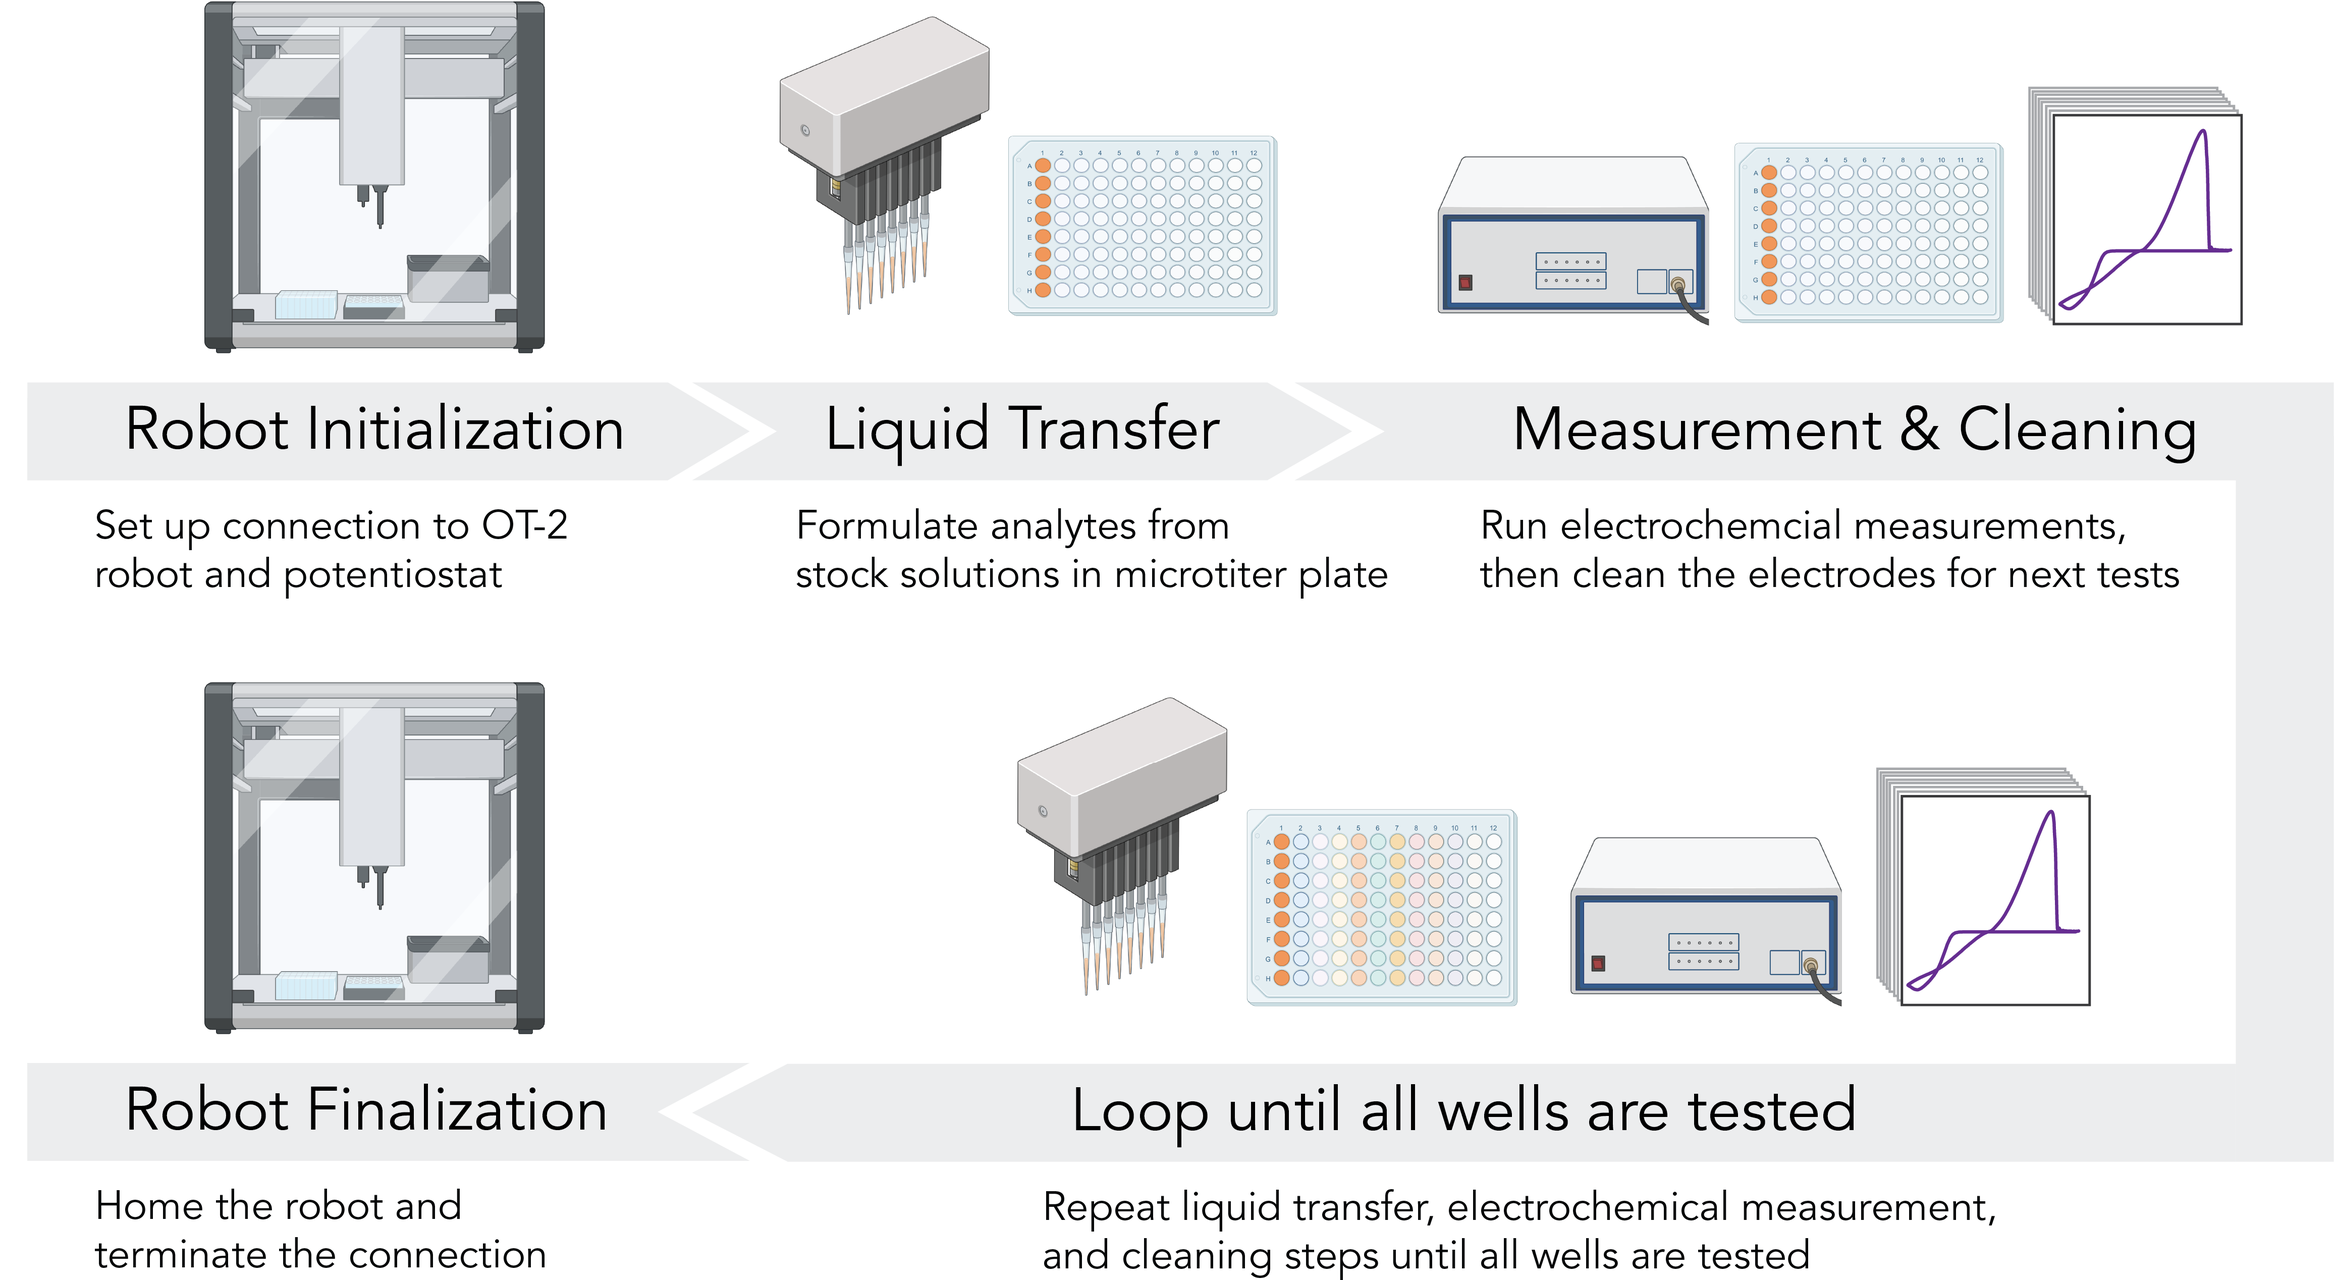
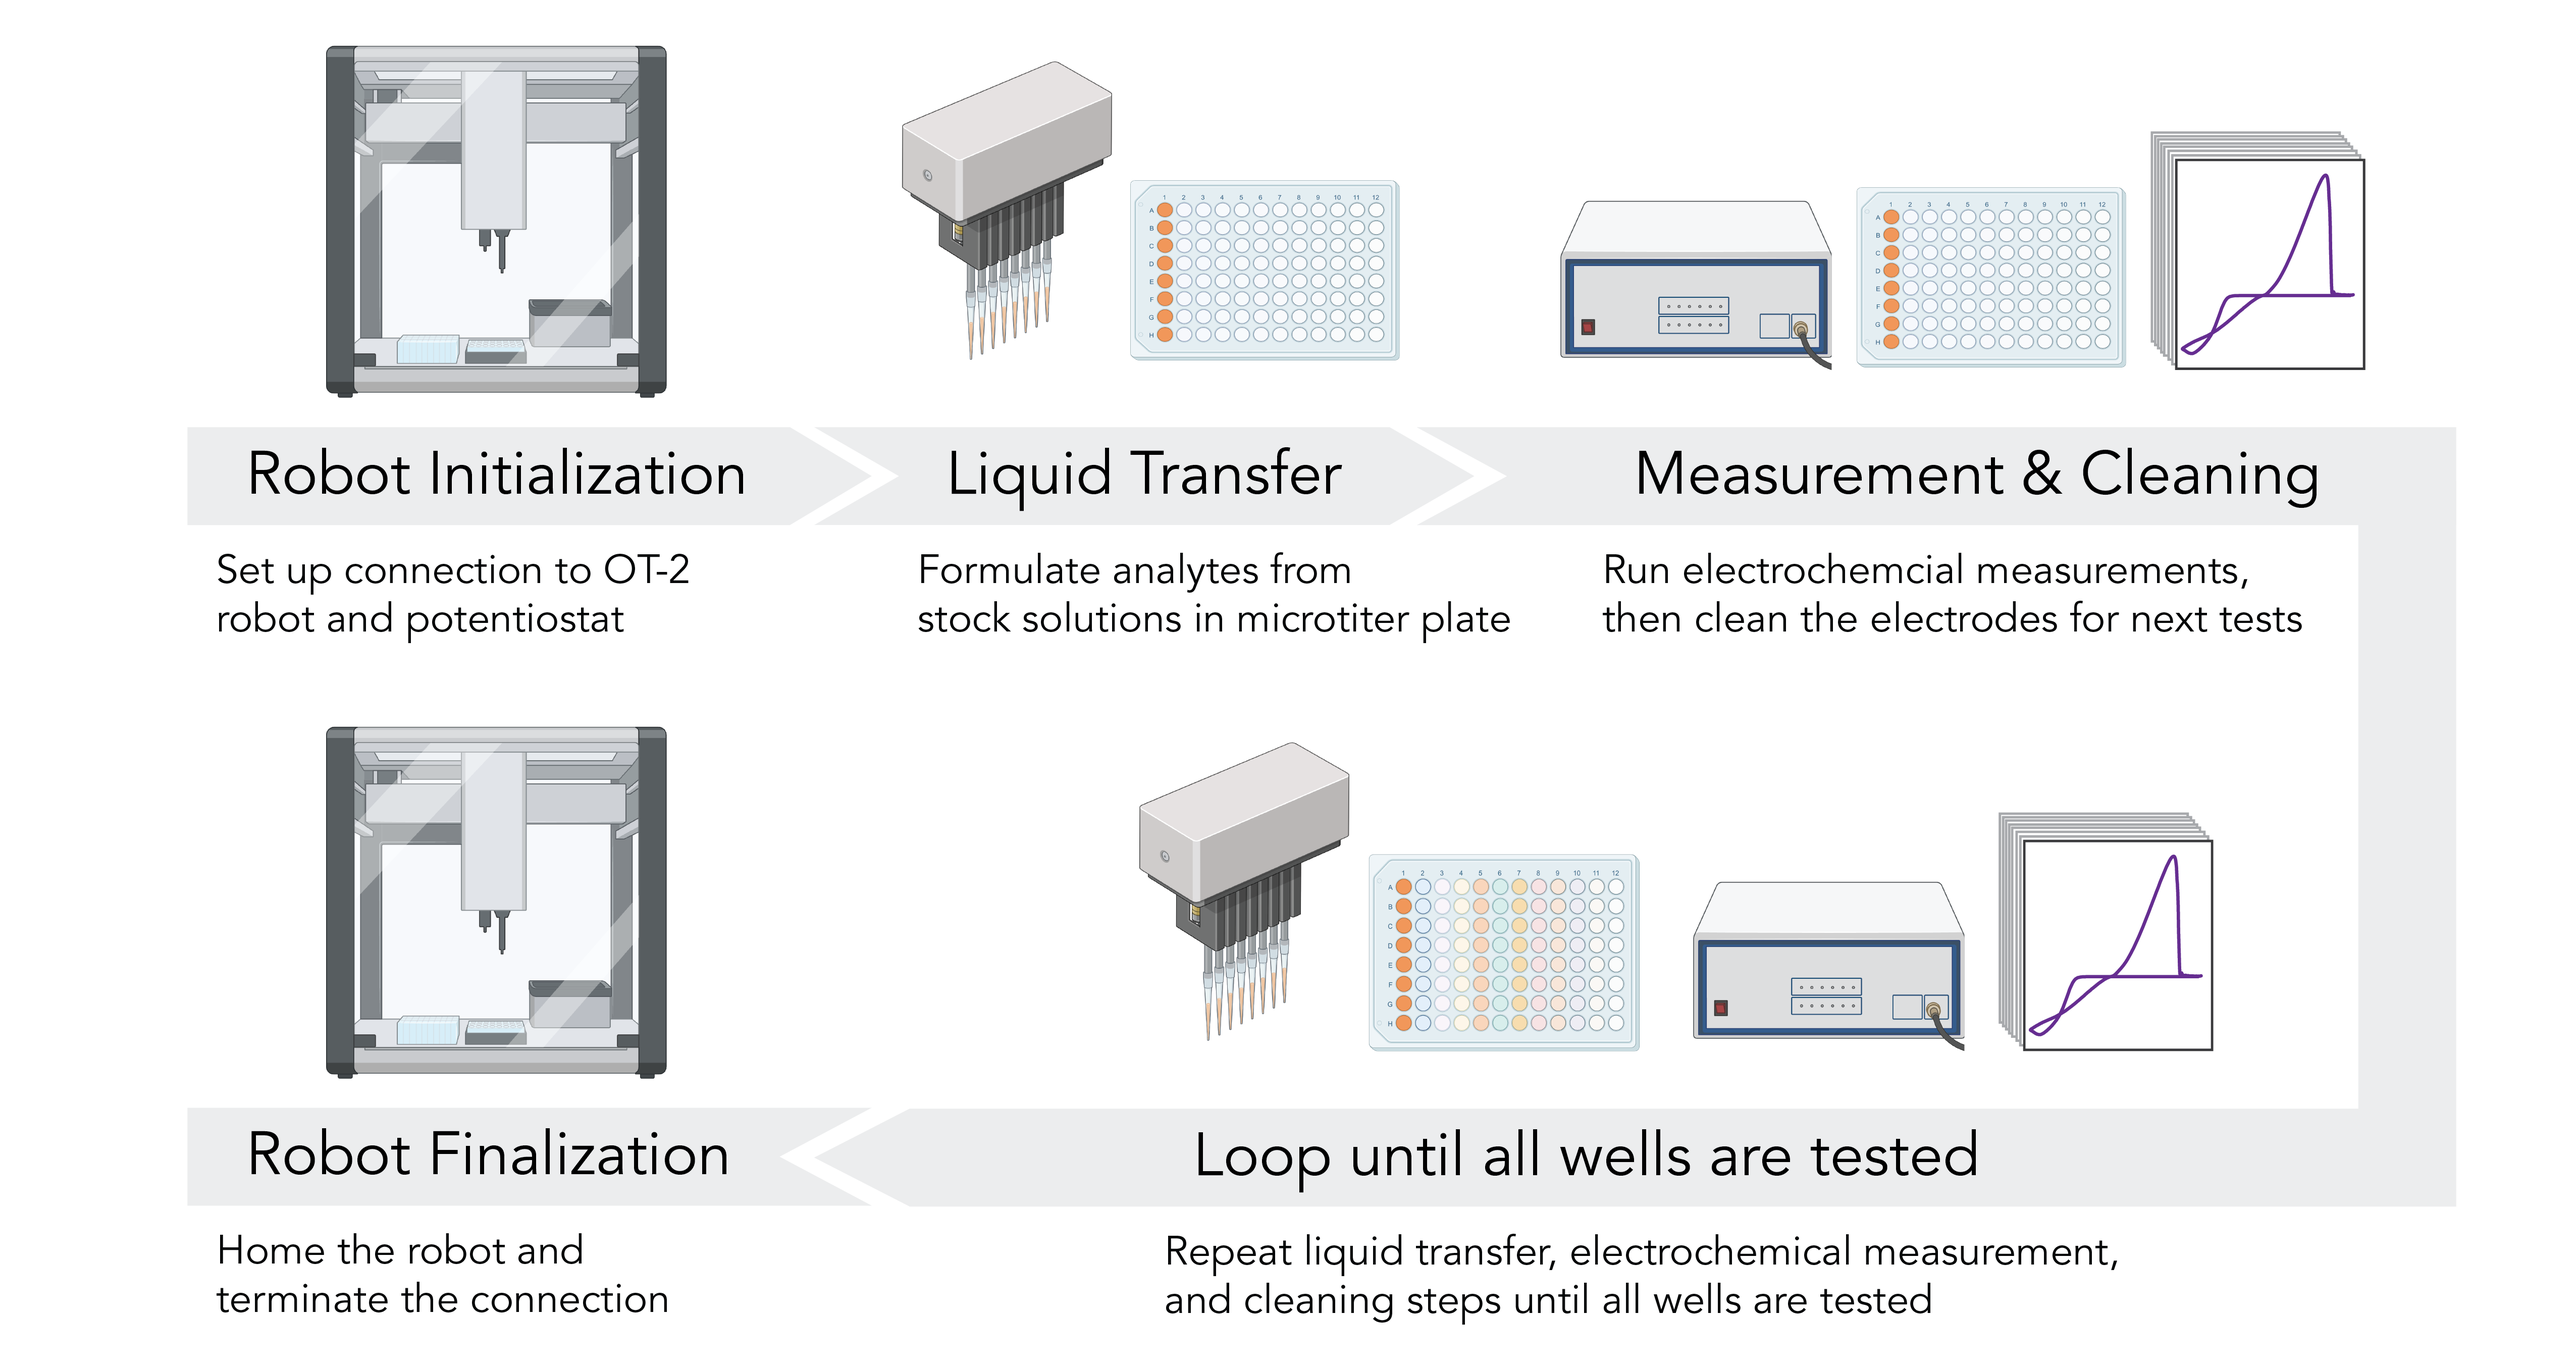
Update workflow

diff --git a/AHTech Operation/ReadMe.md b/AHTech Operation/ReadMe.md
@@ -9,7 +9,7 @@ to [`easy-biologic`](https://github.com/bicarlsen/easy-biologic).**
 #### `Full_operation.py` 
 This is an example code showing the full operation of the AHTech platform with the following workflow:
 
-![img.png](img.png)
+![Workflow.png](..%2FImages%2FWorkflow.png)
 
 *For detailed description of the workflow, please refer to our paper.*
 
